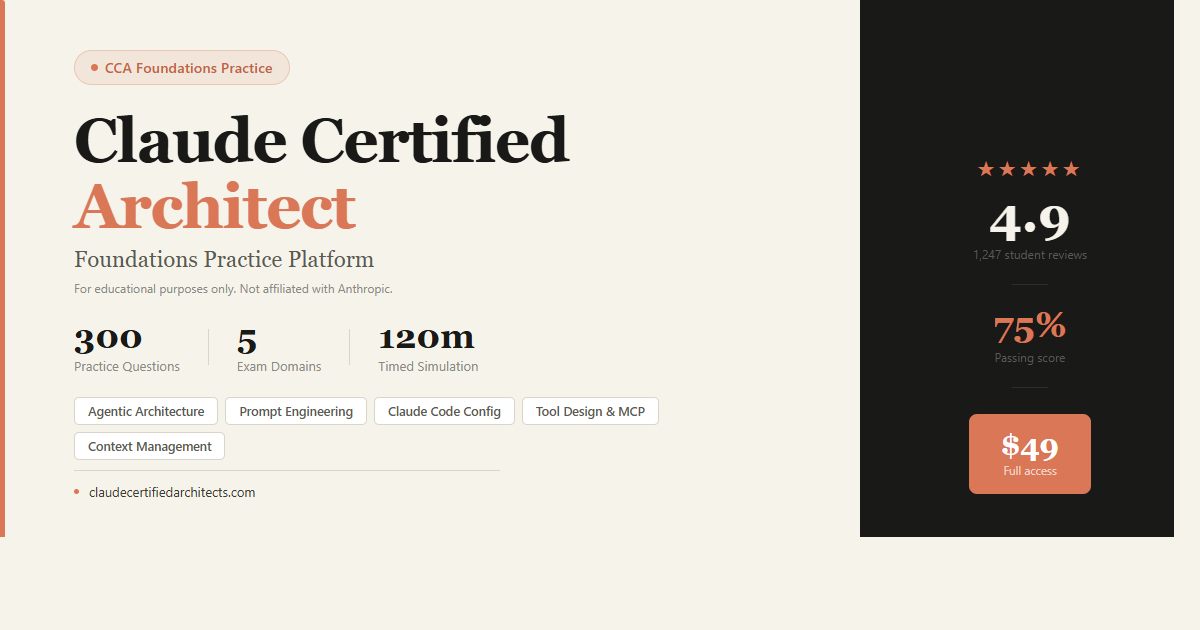
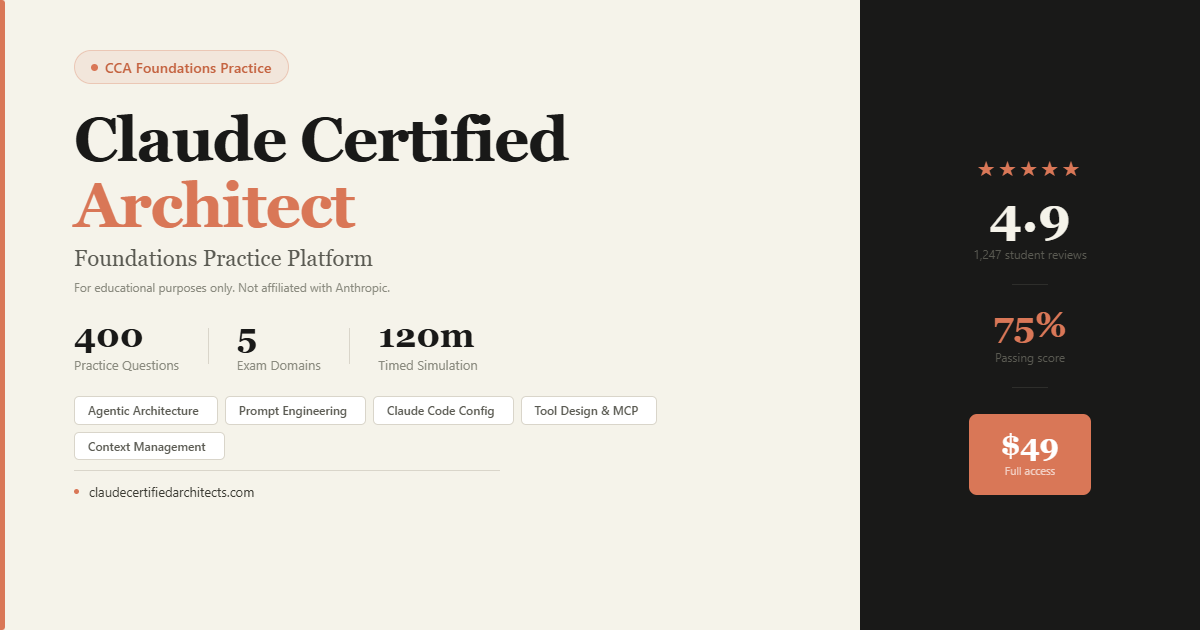
Update OG/social card image: 300 -> 400 practice questions
og:title/description already said 400, but the shared social
preview image (og-image-v2.png) still showed the old "300"
stat. Regenerate it from og-image.html with the corrected count.

diff --git a/og-image.html b/og-image.html
@@ -188,7 +188,7 @@ body{
 
   <div class="stats">
     <div class="stat">
-      <div class="stat-val">300</div>
+      <div class="stat-val">400</div>
       <div class="stat-lbl">Practice Questions</div>
     </div>
     <div class="vr"></div>